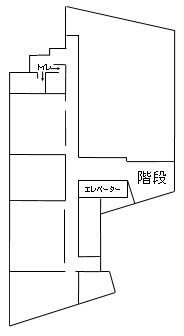
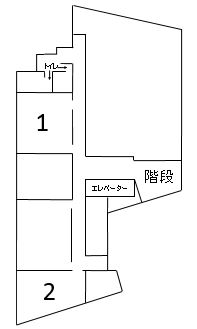
５階フロワーマップのページに番号、その番号に対応するリンク先追加

Changed region(s): [[0.0272, 0.0, 0.9783, 1.0], [0.462, 0.0304, 0.6793, 0.0608], [0.1902, 0.3343, 0.2446, 0.3951]]

diff --git a/Maps/5Fmap.html b/Maps/5Fmap.html
@@ -33,7 +33,15 @@
            <div data-role="content">
            	<h2>5階フロワーマップ</h2>
            	<div Align="center">
-              <img src="5Fmap.JPG" width="90%" height="30%">
+           
+  			 
+              <img src="5Fmap.JPG" width="80%" height="30%"><br>
+              	<ul data-role="listview" data-inset="true">
+						  <li><a href="../katenzi/katenzi1.html">1.情報処理科</a></li>
+						  <li><a href="../katenzi/katenzi2.html">2.Webデザイナー科</a></li>
+				</ul>
+              
+              
              </div>
            </div>
            <div data-role="footer" data-position="fixed" data-tap-toggle="false">
